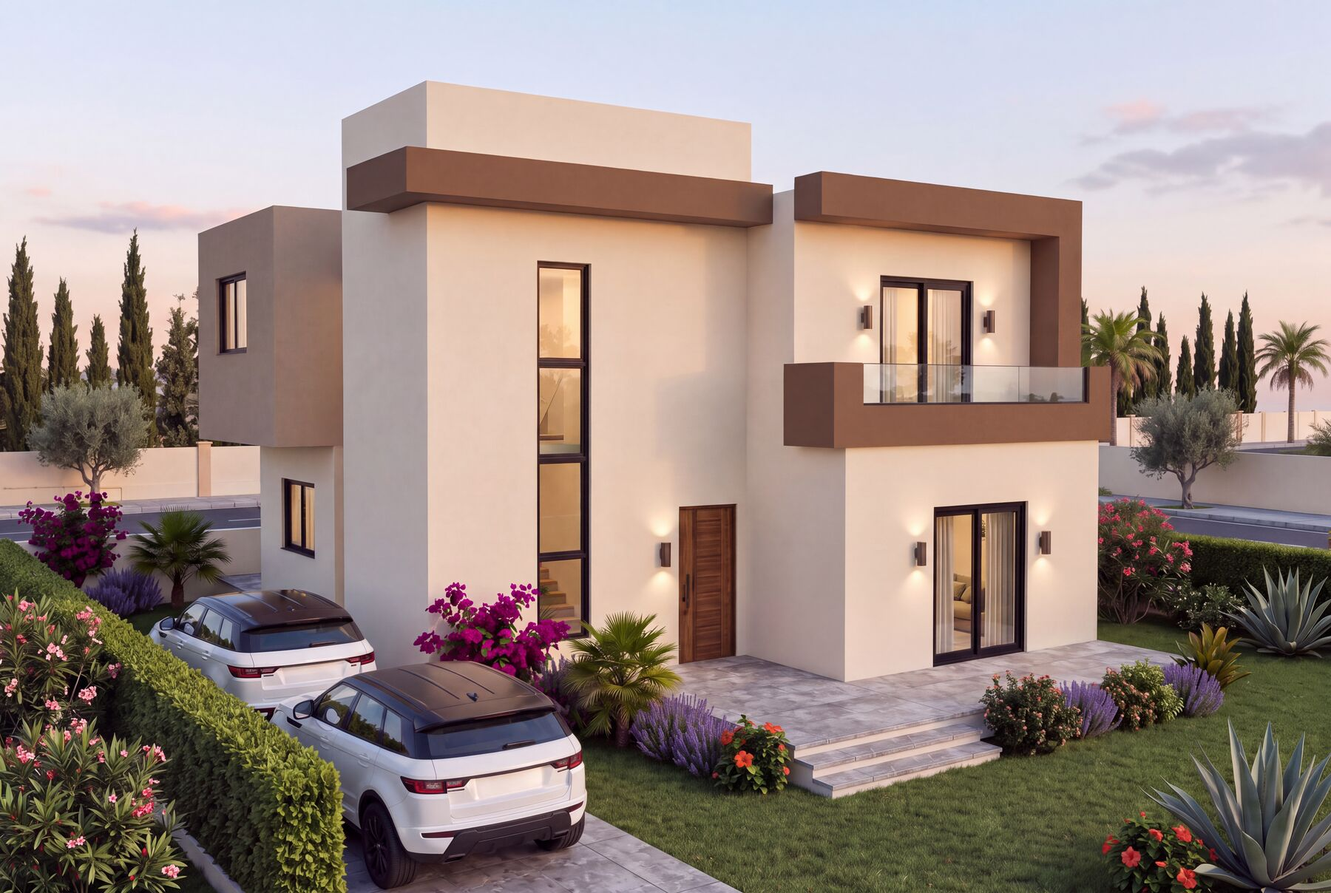
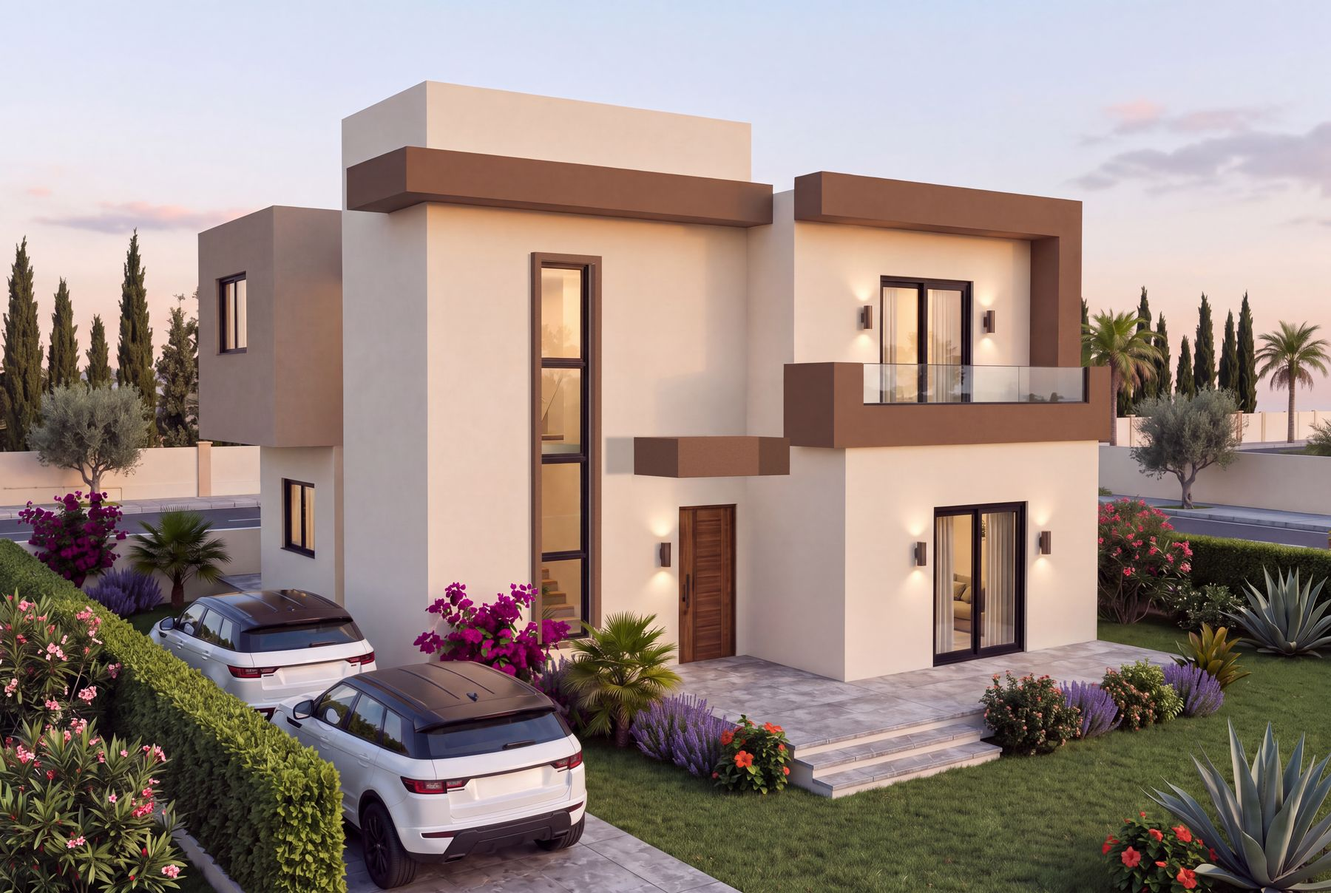
NeoCity güncel klasöre göre: 50 villa (22 tek · 28 ikiz) sunum v12 ile 5 dilde (genel bakış, öne çıkan bilgiler, vaziyet, ana sayfa, proje kartı, sayfa açıklaması, JSON-LD); vaziyet planı v12 gündüz/gece; ön cephe görselleri 30 Ekim saçaklı hâlleriyle (6 galeri karesi + iç mekân dış cephe karesi); l

Changed region(s): [[0.3733, 0.2757, 0.5911, 0.7045], [0.4044, 0.7045, 0.4356, 0.7351]]

diff --git a/lib/azure/projects/neocity.tsx b/lib/azure/projects/neocity.tsx
@@ -1,5 +1,5 @@
-// Azure proje verisi: NeoCity (TR/EN/DE/RU/PL). Kaynak: "NEOCITY PRESANTATION" sunumu (DND Cyprus, Ekim 2026)
-// ve onaylı render seti. Rakamlar sunumdan birebir; fiyatlar diğer projelerde olduğu gibi sayfada yazılmaz.
+// Azure proje verisi: NeoCity (TR/EN/DE/RU/PL). Kaynak: "NEOCITY PRESANTATION" sunumu (DND Cyprus, v12, 8 Kasım 2026:
+// 50 villa, 22 tek + 28 ikiz; vaziyet v12) ve onaylı render seti (30 Ekim 2026 saçaklı ön cepheler). Rakamlar sunumdan birebir; fiyatlar diğer projelerde olduğu gibi sayfada yazılmaz.
 // Konum: sunumun 9. sayfasındaki uydu görselindeki arsa, Google uydu görüntüsüyle eşlenerek (DAÜ Bağlantı Yolu'nun kuzeyi,
 // Yasemin Sitesi yolunun doğusu) 35.15406, 33.85201; mesafeler sunumdaki gibi dakika. Teslim: Nisan 2029 (DND, 19 Ekim 2026).
 import type { ReactNode } from "react";
@@ -73,7 +73,7 @@ function build(locale: Locale, c: Copy): ProjectContent {
         image: `${SITE_URL}/neocity/hero.jpg`,
         address: { "@type": "PostalAddress", addressLocality: "Gazimağusa", addressRegion: "Gazimağusa", addressCountry: "CY" },
         geo: { "@type": "GeoCoordinates", latitude: 35.15406, longitude: 33.85201 },
-        numberOfAccommodationUnits: { "@type": "QuantitativeValue", value: 54 },
+        numberOfAccommodationUnits: { "@type": "QuantitativeValue", value: 50 },
       },
     },
     sitePlan: {
@@ -172,7 +172,7 @@ const TR = build("tr", {
     title: "NeoCity Genel Bakış",
     lead: "DND Cyprus’un yeni projesi NeoCity ile bu kez odağımızda yerli aileler ve villa yaşamı var. Gazimağusa bölgesinde konumlanan NeoCity, günlük yaşamın ihtiyaçlarına, eğitim ve sağlık olanaklarına kolay ulaşım sağlayan avantajlı bir lokasyonda yükseliyor.",
     highlights: [
-      "3 etaptan birincisi hayata geçiyor: 18 tek villa ve 36 ikiz villa, toplam 54 villa",
+      "3 etaptan birincisi hayata geçiyor: 22 tek villa ve 28 ikiz villa, toplam 50 villa",
       "Her villada özel bahçe; opsiyonel özel yüzme havuzu",
       "Modern Akdeniz mimarisi, aile yaşamına uygun ferah evler; komşuluk değerleri ön planda",
       "Site içinde market, eczane, restoran, çocuk oyun alanı, spor tesisi ve yürüyüş yolu",
@@ -184,16 +184,16 @@ const TR = build("tr", {
     kicker: "Öne çıkan bilgiler",
     title: "NeoCity Öne Çıkan Bilgiler",
     lead: "Projenin temel özelliklerine hızlıca göz atın.",
-    items: [["Lokasyon", "Gazimağusa Bölgesi"], ["Teslim", "Nisan 2029"], ["Etap", "1. Etap (3 etaptan ilki)"], ["Villa Sayısı", "54 (18 tek · 36 ikiz)"], ["Arsa Alanı", "20.170 m²"], ["İnşaat Alanı", "8.556 m²"]],
+    items: [["Lokasyon", "Gazimağusa Bölgesi"], ["Teslim", "Nisan 2029"], ["Etap", "1. Etap (3 etaptan ilki)"], ["Villa Sayısı", "50 (22 tek · 28 ikiz)"], ["Arsa Alanı", "20.170 m²"], ["İnşaat Alanı", "8.556 m²"]],
     note: "* Bilgiler tanıtım amaçlıdır. Nihai teknik ve satış detayları için satış ekibimizle iletişime geçiniz.",
   },
   site: {
     kicker: "Vaziyet planı",
     title: "NeoCity Vaziyet Planı",
-    lead: "1. etapta 54 villa üç sıra halinde yerleşiyor: üst sırada 18 tek villa, ortadaki iki sırada 36 ikiz villa. Ana yol tarafında market, eczane ve restoran; yanında yürüyüş yolu, spor tesisi ve çocuk oyun alanının bulunduğu yeşil alan.",
+    lead: "1. etapta 50 villa yer alıyor: üst bölümde 18 tek villa, orta bölümde 28 ikiz villa ve 4 tek villa. Ana yol tarafında market, eczane ve restoran; yanında yürüyüş yolu, spor tesisi ve çocuk oyun alanının bulunduğu yeşil alan.",
     day: "Gündüz", night: "Gece",
     dayAlt: "NeoCity vaziyet planı, villa numaralarıyla gündüz görünümü", nightAlt: "NeoCity vaziyet planı, villa numaralarıyla gece görünümü",
-    stats: [["Arsa alanı", "20.170 m²"], ["İnşaat alanı", "8.556 m²"], ["Yeşil alan", "1.920 m²"], ["Tek villa", "18"], ["İkiz villa", "36"]],
+    stats: [["Arsa alanı", "20.170 m²"], ["İnşaat alanı", "8.556 m²"], ["Yeşil alan", "1.920 m²"], ["Tek villa", "22"], ["İkiz villa", "28"]],
     legend: ["Yürüyüş alanı", "Spor tesisi", "Çocuk oyun alanı", "Yeşil alan", "Otopark", "Restoran", "Market", "Eczane"],
     note: "* Görseller temsilidir. Planı büyütmek için görsele dokunun.",
   },
@@ -272,7 +272,7 @@ const EN = build("en", {
     title: "NeoCity Overview",
     lead: "With NeoCity, DND Cyprus’s newest project, our focus is on local families and villa living. Set in the Famagusta region, NeoCity rises in an advantageous location with easy access to daily needs, schools and healthcare.",
     highlights: [
-      "Phase 1 of 3 is under way: 18 single and 36 twin villas, 54 villas in total",
+      "Phase 1 of 3 is under way: 22 single and 28 twin villas, 50 villas in total",
       "A private garden with every villa; optional private swimming pool",
       "Modern Mediterranean architecture and spacious family homes, with neighbourliness at heart",
       "On site: market, pharmacy, restaurant, children’s playground, sports facility and walking path",
@@ -284,16 +284,16 @@ const EN = build("en", {
     kicker: "Key facts",
     title: "NeoCity Key Facts",
     lead: "A quick look at the project’s main features.",
-    items: [["Location", "Famagusta Region"], ["Delivery", "April 2029"], ["Phase", "Phase 1 (of 3)"], ["Villas", "54 (18 single · 36 twin)"], ["Plot Area", "20,170 m²"], ["Construction Area", "8,556 m²"]],
+    items: [["Location", "Famagusta Region"], ["Delivery", "April 2029"], ["Phase", "Phase 1 (of 3)"], ["Villas", "50 (22 single · 28 twin)"], ["Plot Area", "20,170 m²"], ["Construction Area", "8,556 m²"]],
     note: "* Information is for promotional purposes. Please contact our sales team for final technical and sales details.",
   },
   site: {
     kicker: "Site plan",
     title: "NeoCity Site Plan",
-    lead: "Phase 1 places 54 villas in three rows: 18 single villas in the top row and 36 twin villas in the two middle rows. Along the main road: market, pharmacy and restaurant, next to a green area with a walking path, sports facility and children’s playground.",
+    lead: "Phase 1 has 50 villas: 18 single villas in the upper block, and 28 twin villas and 4 single villas in the middle block. Along the main road: market, pharmacy and restaurant, next to a green area with a walking path, sports facility and children’s playground.",
     day: "Day", night: "Night",
     dayAlt: "NeoCity site plan with villa numbers, daytime view", nightAlt: "NeoCity site plan with villa numbers, night view",
-    stats: [["Plot area", "20,170 m²"], ["Construction area", "8,556 m²"], ["Green area", "1,920 m²"], ["Single villas", "18"], ["Twin villas", "36"]],
+    stats: [["Plot area", "20,170 m²"], ["Construction area", "8,556 m²"], ["Green area", "1,920 m²"], ["Single villas", "22"], ["Twin villas", "28"]],
     legend: ["Walking path", "Sports facility", "Children’s playground", "Green area", "Parking", "Restaurant", "Market", "Pharmacy"],
     note: "* Images are representative. Tap the plan to enlarge it.",
   },
@@ -372,7 +372,7 @@ const DE = build("de", {
     title: "NeoCity Überblick",
     lead: "Mit NeoCity, dem neuesten Projekt von DND Cyprus, stehen diesmal einheimische Familien und das Leben in der Villa im Mittelpunkt. In der Region Famagusta entsteht NeoCity in vorteilhafter Lage mit kurzen Wegen zu allem für den täglichen Bedarf, zu Schulen und zur Gesundheitsversorgung.",
     highlights: [
-      "Der erste von 3 Bauabschnitten entsteht: 18 freistehende und 36 Doppelvillen, insgesamt 54 Villen",
+      "Der erste von 3 Bauabschnitten entsteht: 22 freistehende und 28 Doppelvillen, insgesamt 50 Villen",
       "Privatgarten bei jeder Villa; optionaler privater Pool",
       "Moderne mediterrane Architektur, großzügige Familienhäuser, gelebte Nachbarschaft",
       "In der Anlage: Markt, Apotheke, Restaurant, Kinderspielplatz, Sportanlage und Spazierweg",
@@ -384,16 +384,16 @@ const DE = build("de", {
     kicker: "Wichtige Fakten",
     title: "NeoCity Wichtige Fakten",
     lead: "Die wichtigsten Merkmale des Projekts auf einen Blick.",
-    items: [["Lage", "Region Famagusta"], ["Übergabe", "April 2029"], ["Bauabschnitt", "1. Bauabschnitt (von 3)"], ["Villen", "54 (18 freistehend · 36 Doppel)"], ["Grundstücksfläche", "20.170 m²"], ["Baufläche", "8.556 m²"]],
+    items: [["Lage", "Region Famagusta"], ["Übergabe", "April 2029"], ["Bauabschnitt", "1. Bauabschnitt (von 3)"], ["Villen", "50 (22 freistehend · 28 Doppel)"], ["Grundstücksfläche", "20.170 m²"], ["Baufläche", "8.556 m²"]],
     note: "* Die Angaben dienen Werbezwecken. Für endgültige technische und vertragliche Details wenden Sie sich bitte an unser Vertriebsteam.",
   },
   site: {
     kicker: "Lageplan",
     title: "NeoCity Lageplan",
-    lead: "Im 1. Bauabschnitt liegen 54 Villen in drei Reihen: 18 freistehende Villen in der oberen Reihe, 36 Doppelvillen in den beiden mittleren Reihen. An der Hauptstraße: Markt, Apotheke und Restaurant, daneben eine Grünfläche mit Spazierweg, Sportanlage und Kinderspielplatz.",
+    lead: "Im 1. Bauabschnitt entstehen 50 Villen: 18 freistehende Villen im oberen Bereich, 28 Doppelvillen und 4 freistehende Villen im mittleren Bereich. An der Hauptstraße: Markt, Apotheke und Restaurant, daneben eine Grünfläche mit Spazierweg, Sportanlage und Kinderspielplatz.",
     day: "Tag", night: "Nacht",
     dayAlt: "NeoCity Lageplan mit Villennummern, Tagansicht", nightAlt: "NeoCity Lageplan mit Villennummern, Nachtansicht",
-    stats: [["Grundstücksfläche", "20.170 m²"], ["Baufläche", "8.556 m²"], ["Grünfläche", "1.920 m²"], ["Freistehende Villen", "18"], ["Doppelvillen", "36"]],
+    stats: [["Grundstücksfläche", "20.170 m²"], ["Baufläche", "8.556 m²"], ["Grünfläche", "1.920 m²"], ["Freistehende Villen", "22"], ["Doppelvillen", "28"]],
     legend: ["Spazierweg", "Sportanlage", "Kinderspielplatz", "Grünfläche", "Parkplatz", "Restaurant", "Markt", "Apotheke"],
     note: "* Abbildungen sind beispielhaft. Zum Vergrößern auf den Plan tippen.",
   },
@@ -472,7 +472,7 @@ const RU = build("ru", {
     title: "NeoCity Обзор",
     lead: "В новом проекте DND Cyprus — NeoCity — в центре внимания местные семьи и жизнь в вилле. NeoCity строится в районе Фамагусты, в удобном месте с быстрым доступом ко всему необходимому, школам и медицине.",
     highlights: [
-      "Начинается первая из 3 очередей: 18 отдельных и 36 дуплекс-вилл, всего 54 виллы",
+      "Начинается первая из 3 очередей: 22 отдельные виллы и 28 дуплекс-вилл, всего 50 вилл",
       "Частный сад у каждой виллы; частный бассейн по желанию",
       "Современная средиземноморская архитектура, просторные дома для семей, добрососедство",
       "На территории: магазин, аптека, ресторан, детская площадка, спортивная площадка и прогулочная дорожка",
@@ -484,16 +484,16 @@ const RU = build("ru", {
     kicker: "Ключевые факты",
     title: "NeoCity Ключевые факты",
     lead: "Основные характеристики проекта в кратком обзоре.",
-    items: [["Расположение", "Район Фамагусты"], ["Сдача", "апрель 2029"], ["Очередь", "1-я очередь (из 3)"], ["Вилл", "54 (18 отдельных · 36 дуплекс)"], ["Площадь участка", "20 170 m²"], ["Площадь застройки", "8 556 m²"]],
+    items: [["Расположение", "Район Фамагусты"], ["Сдача", "апрель 2029"], ["Очередь", "1-я очередь (из 3)"], ["Вилл", "50 (22 отдельные · 28 дуплекс)"], ["Площадь участка", "20 170 m²"], ["Площадь застройки", "8 556 m²"]],
     note: "* Информация носит рекламный характер. Окончательные технические и коммерческие условия уточняйте у отдела продаж.",
   },
   site: {
     kicker: "Генплан",
     title: "NeoCity Генплан",
-    lead: "В 1-й очереди 54 виллы расположены в три ряда: 18 отдельных вилл в верхнем ряду и 36 дуплекс-вилл в двух средних. Вдоль главной дороги — магазин, аптека и ресторан, рядом зелёная зона с прогулочной дорожкой, спортивной и детской площадками.",
+    lead: "В 1-й очереди 50 вилл: 18 отдельных вилл в верхнем квартале, 28 дуплекс-вилл и 4 отдельные виллы в среднем. Вдоль главной дороги — магазин, аптека и ресторан, рядом зелёная зона с прогулочной дорожкой, спортивной и детской площадками.",
     day: "День", night: "Ночь",
     dayAlt: "Генплан NeoCity с номерами вилл, дневной вид", nightAlt: "Генплан NeoCity с номерами вилл, ночной вид",
-    stats: [["Площадь участка", "20 170 m²"], ["Площадь застройки", "8 556 m²"], ["Зелёная зона", "1 920 m²"], ["Отдельные виллы", "18"], ["Дуплекс-виллы", "36"]],
+    stats: [["Площадь участка", "20 170 m²"], ["Площадь застройки", "8 556 m²"], ["Зелёная зона", "1 920 m²"], ["Отдельные виллы", "22"], ["Дуплекс-виллы", "28"]],
     legend: ["Прогулочная дорожка", "Спортивная площадка", "Детская площадка", "Зелёная зона", "Парковка", "Ресторан", "Магазин", "Аптека"],
     note: "* Изображения носят иллюстративный характер. Коснитесь плана, чтобы увеличить его.",
   },
@@ -572,7 +572,7 @@ const PL = build("pl", {
     title: "NeoCity Przegląd",
     lead: "W NeoCity, najnowszym projekcie DND Cyprus, w centrum uwagi są tym razem lokalne rodziny i życie w willi. NeoCity powstaje w regionie Famagusty, w dogodnej lokalizacji z łatwym dostępem do codziennych potrzeb, szkół i opieki zdrowotnej.",
     highlights: [
-      "Rusza pierwszy z 3 etapów: 18 willi wolnostojących i 36 bliźniaczych, łącznie 54 wille",
+      "Rusza pierwszy z 3 etapów: 22 wille wolnostojące i 28 bliźniaczych, łącznie 50 willi",
       "Prywatny ogród przy każdej willi; opcjonalny prywatny basen",
       "Nowoczesna architektura śródziemnomorska, przestronne domy dla rodzin, dobre sąsiedztwo",
       "Na miejscu: market, apteka, restauracja, plac zabaw, obiekt sportowy i ścieżka spacerowa",
@@ -584,16 +584,16 @@ const PL = build("pl", {
     kicker: "Najważniejsze informacje",
     title: "NeoCity Najważniejsze informacje",
     lead: "Szybki przegląd głównych cech projektu.",
-    items: [["Lokalizacja", "Region Famagusty"], ["Oddanie", "kwiecień 2029"], ["Etap", "Etap 1 (z 3)"], ["Liczba willi", "54 (18 wolnost. · 36 bliźn.)"], ["Powierzchnia działki", "20 170 m²"], ["Powierzchnia zabudowy", "8 556 m²"]],
+    items: [["Lokalizacja", "Region Famagusty"], ["Oddanie", "kwiecień 2029"], ["Etap", "Etap 1 (z 3)"], ["Liczba willi", "50 (22 wolnost. · 28 bliźn.)"], ["Powierzchnia działki", "20 170 m²"], ["Powierzchnia zabudowy", "8 556 m²"]],
     note: "* Informacje mają charakter promocyjny. W sprawie ostatecznych szczegółów technicznych i handlowych skontaktuj się z naszym działem sprzedaży.",
   },
   site: {
     kicker: "Plan osiedla",
     title: "NeoCity Plan osiedla",
-    lead: "W 1. etapie 54 wille stoją w trzech rzędach: 18 willi wolnostojących w górnym rzędzie i 36 bliźniaczych w dwóch środkowych. Przy głównej drodze: market, apteka i restauracja, obok teren zielony ze ścieżką spacerową, obiektem sportowym i placem zabaw.",
+    lead: "W 1. etapie powstaje 50 willi: 18 willi wolnostojących w górnej części oraz 28 bliźniaczych i 4 wolnostojące w części środkowej. Przy głównej drodze: market, apteka i restauracja, obok teren zielony ze ścieżką spacerową, obiektem sportowym i placem zabaw.",
     day: "Dzień", night: "Noc",
     dayAlt: "Plan osiedla NeoCity z numerami willi, widok dzienny", nightAlt: "Plan osiedla NeoCity z numerami willi, widok nocny",
-    stats: [["Powierzchnia działki", "20 170 m²"], ["Powierzchnia zabudowy", "8 556 m²"], ["Teren zielony", "1 920 m²"], ["Wille wolnostojące", "18"], ["Wille bliźniacze", "36"]],
+    stats: [["Powierzchnia działki", "20 170 m²"], ["Powierzchnia zabudowy", "8 556 m²"], ["Teren zielony", "1 920 m²"], ["Wille wolnostojące", "22"], ["Wille bliźniacze", "28"]],
     legend: ["Ścieżka spacerowa", "Obiekt sportowy", "Plac zabaw", "Teren zielony", "Parking", "Restauracja", "Market", "Apteka"],
     note: "* Zdjęcia mają charakter poglądowy. Dotknij planu, aby go powiększyć.",
   },

diff --git a/lib/azure/home-flow.tsx b/lib/azure/home-flow.tsx
@@ -29,7 +29,7 @@ const TR: HomeFlow = {
     label: "Projelerimiz",
     cta: "Projeyi keşfet", prev: "Önceki proje", next: "Sonraki proje", pause: "Durdur", play: "Oynat",
     slides: [
-      { slug: "neocity", name: "NeoCity", title: <>Yerli aileler için <b>villa yaşamı.</b></>, sub: "Gazimağusa Bölgesi · 54 villa · 5 Sıfır ödeme" },
+      { slug: "neocity", name: "NeoCity", title: <>Yerli aileler için <b>villa yaşamı.</b></>, sub: "Gazimağusa Bölgesi · 50 villa · 5 Sıfır ödeme" },
       { slug: "lagoon-verde", name: "Lagoon Verde Rezidansları ve Tatil Köyü", title: <>Akdeniz’de yeni bir <b>yaşam ritmi.</b></>, sub: "Ötüken, İskele · 3.500 m² lagün" },
       { slug: "la-joya", name: "La Joya Resort & Residences", title: <>Tamamlandı, <b>yaşam başladı.</b></>, sub: "Bahçeler, İskele · 74 konut · 2025’te teslim edildi" },
       { slug: "perla", name: "La Joya Perla", title: <>Dört mevsim <b>resort yaşamı.</b></>, sub: "Bahçeler, İskele · Denize 700 m · Sand pool ve spa" },
@@ -83,7 +83,7 @@ const EN: HomeFlow = {
     label: "Our projects",
     cta: "Explore the project", prev: "Previous project", next: "Next project", pause: "Pause", play: "Play",
     slides: [
-      { slug: "neocity", name: "NeoCity", title: <>Villa living for <b>local families.</b></>, sub: "Famagusta Region · 54 villas · 5 Zeros payment" },
+      { slug: "neocity", name: "NeoCity", title: <>Villa living for <b>local families.</b></>, sub: "Famagusta Region · 50 villas · 5 Zeros payment" },
       { slug: "lagoon-verde", name: "Lagoon Verde Residences & Holiday Village", title: <>A new rhythm of life <b>on the Mediterranean.</b></>, sub: "Ötüken, İskele · 3,500 m² lagoon" },
       { slug: "la-joya", name: "La Joya Resort & Residences", title: <>Completed, <b>and life has begun.</b></>, sub: "Bahçeler, İskele · 74 homes · Delivered in 2025" },
       { slug: "perla", name: "La Joya Perla", title: <>Resort living <b>all year round.</b></>, sub: "Bahçeler, İskele · 700 m to the sea · Sand pool and spa" },
@@ -137,7 +137,7 @@ const DE: HomeFlow = {
     label: "Unsere Projekte",
     cta: "Projekt entdecken", prev: "Vorheriges Projekt", next: "Nächstes Projekt", pause: "Pausieren", play: "Abspielen",
     slides: [
-      { slug: "neocity", name: "NeoCity", title: <>Villenleben für <b>einheimische Familien.</b></>, sub: "Region Famagusta · 54 Villen · 5-Null-Zahlung" },
+      { slug: "neocity", name: "NeoCity", title: <>Villenleben für <b>einheimische Familien.</b></>, sub: "Region Famagusta · 50 Villen · 5-Null-Zahlung" },
       { slug: "lagoon-verde", name: "Lagoon Verde Residences & Holiday Village", title: <>Ein neuer Lebensrhythmus <b>am Mittelmeer.</b></>, sub: "Ötüken, İskele · 3.500 m² Lagune" },
       { slug: "la-joya", name: "La Joya Resort & Residences", title: <>Fertiggestellt – <b>das Leben hat begonnen.</b></>, sub: "Bahçeler, İskele · 74 Wohnungen · Übergeben 2025" },
       { slug: "perla", name: "La Joya Perla", title: <>Resort-Leben <b>zu jeder Jahreszeit.</b></>, sub: "Bahçeler, İskele · 700 m zum Meer · Sand pool und Spa" },
@@ -191,7 +191,7 @@ const RU: HomeFlow = {
     label: "Наши проекты",
     cta: "Узнать о проекте", prev: "Предыдущий проект", next: "Следующий проект", pause: "Пауза", play: "Воспроизвести",
     slides: [
-      { slug: "neocity", name: "NeoCity", title: <>Жизнь в вилле <b>для местных семей.</b></>, sub: "Район Фамагусты · 54 виллы · Оплата «5 нулей»" },
+      { slug: "neocity", name: "NeoCity", title: <>Жизнь в вилле <b>для местных семей.</b></>, sub: "Район Фамагусты · 50 вилл · Оплата «5 нулей»" },
       { slug: "lagoon-verde", name: "Lagoon Verde Residences & Holiday Village", title: <>Новый ритм жизни <b>на Средиземном море.</b></>, sub: "Ötüken, Искеле · лагуна 3 500 m²" },
       { slug: "la-joya", name: "La Joya Resort & Residences", title: <>Построено — <b>жизнь началась.</b></>, sub: "Bahçeler, Искеле · 74 квартиры · Сдан в 2025 году" },
       { slug: "perla", name: "La Joya Perla", title: <>Курортная жизнь <b>круглый год.</b></>, sub: "Bahçeler, Искеле · 700 m до моря · Sand pool и спа" },
@@ -245,7 +245,7 @@ const PL: HomeFlow = {
     label: "Nasze projekty",
     cta: "Poznaj projekt", prev: "Poprzedni projekt", next: "Następny projekt", pause: "Wstrzymaj", play: "Odtwórz",
     slides: [
-      { slug: "neocity", name: "NeoCity", title: <>Życie w willi <b>dla lokalnych rodzin.</b></>, sub: "Region Famagusty · 54 wille · Płatność „5 zer”" },
+      { slug: "neocity", name: "NeoCity", title: <>Życie w willi <b>dla lokalnych rodzin.</b></>, sub: "Region Famagusty · 50 willi · Płatność „5 zer”" },
       { slug: "lagoon-verde", name: "Lagoon Verde Residences & Holiday Village", title: <>Nowy rytm życia <b>nad Morzem Śródziemnym.</b></>, sub: "Ötüken, İskele · laguna 3 500 m²" },
       { slug: "la-joya", name: "La Joya Resort & Residences", title: <>Ukończone — <b>życie się zaczęło.</b></>, sub: "Bahçeler, İskele · 74 mieszkania · Oddane w 2025" },
       { slug: "perla", name: "La Joya Perla", title: <>Życie jak w kurorcie <b>przez cały rok.</b></>, sub: "Bahçeler, İskele · 700 m od morza · Sand pool i spa" },

diff --git a/lib/azure/site.ts b/lib/azure/site.ts
@@ -72,7 +72,7 @@ export const PROJECTS: ProjectMeta[] = [
     short: { tr: "Gazimağusa · Yeni proje", en: "Famagusta · New project", de: "Famagusta · Neues Projekt", ru: "Фамагуста · Новый проект", pl: "Famagusta · Nowy projekt" },
     location: { tr: "Gazimağusa Bölgesi", en: "Famagusta Region", de: "Region Famagusta", ru: "Район Фамагусты", pl: "Region Famagusty" },
     status: { tr: "Yeni proje", en: "New project", de: "Neues Projekt", ru: "Новый проект", pl: "Nowy projekt" },
-    blurb: { tr: "54 villa · Tek ve ikiz villa, özel bahçe", en: "54 villas · Single and twin villas, private gardens", de: "54 Villen · Freistehend und Doppelvilla, Privatgärten", ru: "54 виллы · Отдельные и дуплекс-виллы, частные сады", pl: "54 wille · Wolnostojące i bliźniacze, prywatne ogrody" },
+    blurb: { tr: "50 villa · Tek ve ikiz villa, özel bahçe", en: "50 villas · Single and twin villas, private gardens", de: "50 Villen · Freistehend und Doppelvilla, Privatgärten", ru: "50 вилл · Отдельные и дуплекс-виллы, частные сады", pl: "50 willi · Wolnostojące i bliźniacze, prywatne ogrody" },
     cover: "/neocity/hero.jpg",
     thumb: "/neocity/g-02.jpg",
     logo: "/logos/web/neocity.webp",

diff --git a/app/(russian)/ru/(main)/neocity/page.tsx b/app/(russian)/ru/(main)/neocity/page.tsx
@@ -6,7 +6,7 @@ export const metadata = pageMetadata({
   path: "/neocity",
   title: "NeoCity Фамагуста — виллы | DND Cyprus",
   description:
-    "NeoCity в районе Фамагусты: 54 виллы с частными садами, бассейн по желанию, магазин и спортплощадка. План «5 нулей» в лирах: взнос 35 %, 60 месяцев без процентов.",
+    "NeoCity в районе Фамагусты: 50 вилл с частными садами, бассейн по желанию, магазин и спортплощадка. План «5 нулей» в лирах: взнос 35 %, 60 месяцев без процентов.",
   image: "/og/neocity.jpg",
   imageAlt: "Дуплекс-виллы NeoCity с частными бассейнами на закате",
 });

diff --git a/app/(english)/en/(main)/neocity/page.tsx b/app/(english)/en/(main)/neocity/page.tsx
@@ -6,7 +6,7 @@ export const metadata = pageMetadata({
   path: "/neocity",
   title: "NeoCity Famagusta – Single & Twin Villas | DND Cyprus",
   description:
-    "NeoCity in the Famagusta region: 54 villas with private gardens, optional private pools, on-site market and sports area. 5 Zeros lira payment plan: 35% down, 60 months interest-free.",
+    "NeoCity in the Famagusta region: 50 villas with private gardens, optional private pools, on-site market and sports area. 5 Zeros lira payment plan: 35% down, 60 months interest-free.",
   image: "/og/neocity.jpg",
   imageAlt: "NeoCity twin villas with private pools at sunset",
 });

diff --git a/app/(polish)/pl/(main)/neocity/page.tsx b/app/(polish)/pl/(main)/neocity/page.tsx
@@ -6,7 +6,7 @@ export const metadata = pageMetadata({
   path: "/neocity",
   title: "NeoCity Famagusta – wille | DND Cyprus",
   description:
-    "NeoCity w regionie Famagusty: 54 wille z prywatnymi ogrodami, opcjonalnym basenem, marketem i obiektem sportowym. Plan „5 zer” w lirach: 35% wkładu, 60 miesięcy bez odsetek.",
+    "NeoCity w regionie Famagusty: 50 willi z prywatnymi ogrodami, opcjonalnym basenem, marketem i obiektem sportowym. Plan „5 zer” w lirach: 35% wkładu, 60 miesięcy bez odsetek.",
   image: "/og/neocity.jpg",
   imageAlt: "Wille bliźniacze NeoCity z prywatnymi basenami o zachodzie słońca",
 });

diff --git a/app/(default)/tr/neocity/page.tsx b/app/(default)/tr/neocity/page.tsx
@@ -6,7 +6,7 @@ export const metadata = pageMetadata({
   path: "/neocity",
   title: "NeoCity Gazimağusa | Tek ve İkiz Villalar – DND Cyprus",
   description:
-    "Gazimağusa bölgesinde NeoCity: 54 villa, özel bahçe, opsiyonel özel havuz, site içi market ve spor alanı. 5 Sıfır TL ödeme planı: %35 peşinat, 60 ay faizsiz.",
+    "Gazimağusa bölgesinde NeoCity: 50 villa, özel bahçe, opsiyonel özel havuz, site içi market ve spor alanı. 5 Sıfır TL ödeme planı: %35 peşinat, 60 ay faizsiz.",
   image: "/og/neocity.jpg",
   imageAlt: "NeoCity ikiz villalar ve özel havuzlar, gün batımı",
 });

diff --git a/app/(deutsch)/de/(main)/neocity/page.tsx b/app/(deutsch)/de/(main)/neocity/page.tsx
@@ -6,7 +6,7 @@ export const metadata = pageMetadata({
   path: "/neocity",
   title: "NeoCity Famagusta – Villen | DND Cyprus",
   description:
-    "NeoCity in der Region Famagusta: 54 Villen mit Privatgarten, optionalem Privatpool, Markt und Sportanlage. 5-Null-Zahlungsplan in Lira: 35 % Anzahlung, 60 Monate zinsfrei.",
+    "NeoCity in der Region Famagusta: 50 Villen mit Privatgarten, optionalem Privatpool, Markt und Sportanlage. 5-Null-Zahlungsplan in Lira: 35 % Anzahlung, 60 Monate zinsfrei.",
   image: "/og/neocity.jpg",
   imageAlt: "NeoCity Doppelvillen mit Privatpools bei Sonnenuntergang",
 });
